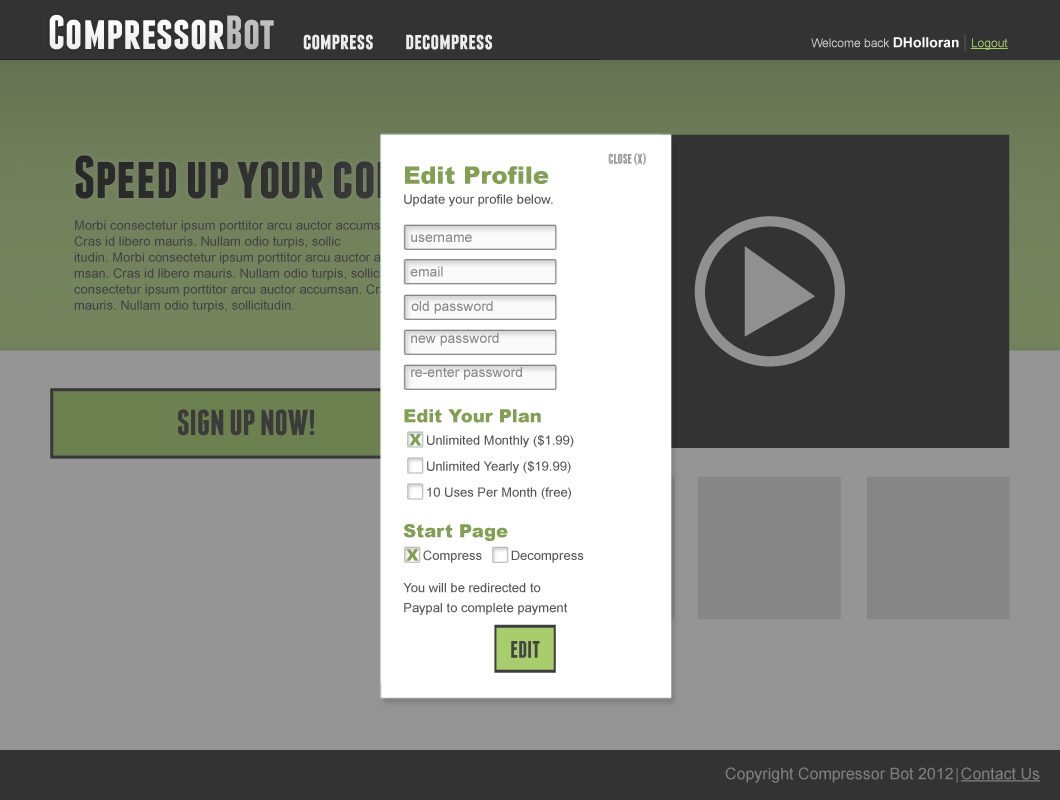
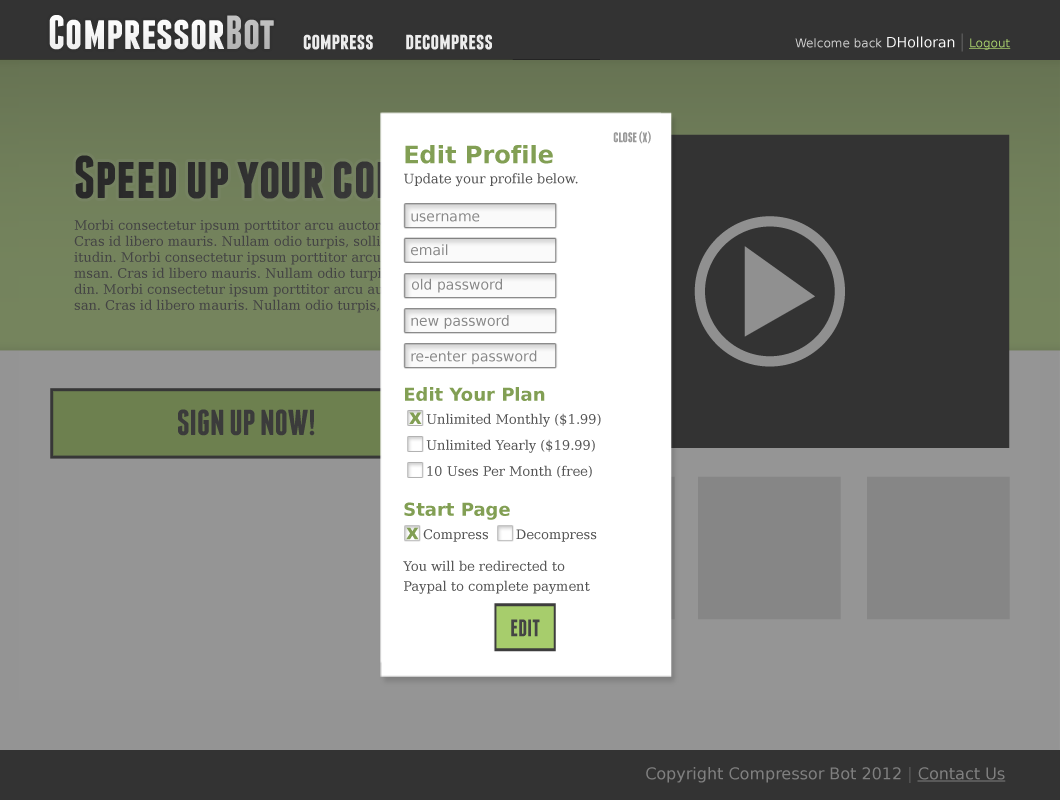
add edit profile box to list

diff --git a/development/mockups/index.html b/development/mockups/index.html
@@ -43,6 +43,10 @@
 		<img src="register.png" alt="Register box" width="1060" height="800" />
 	</li>
 	<li>
+		<h3>Edit Profile</h3>
+		<img src="edit_profile.png" alt="Register box" width="1060" height="800" />
+	</li>
+	<li>
 		<h3>Contact Us</h3>
 		<img src="contact.png" alt="Contact box" width="1060" height="800" />
 	</li>
